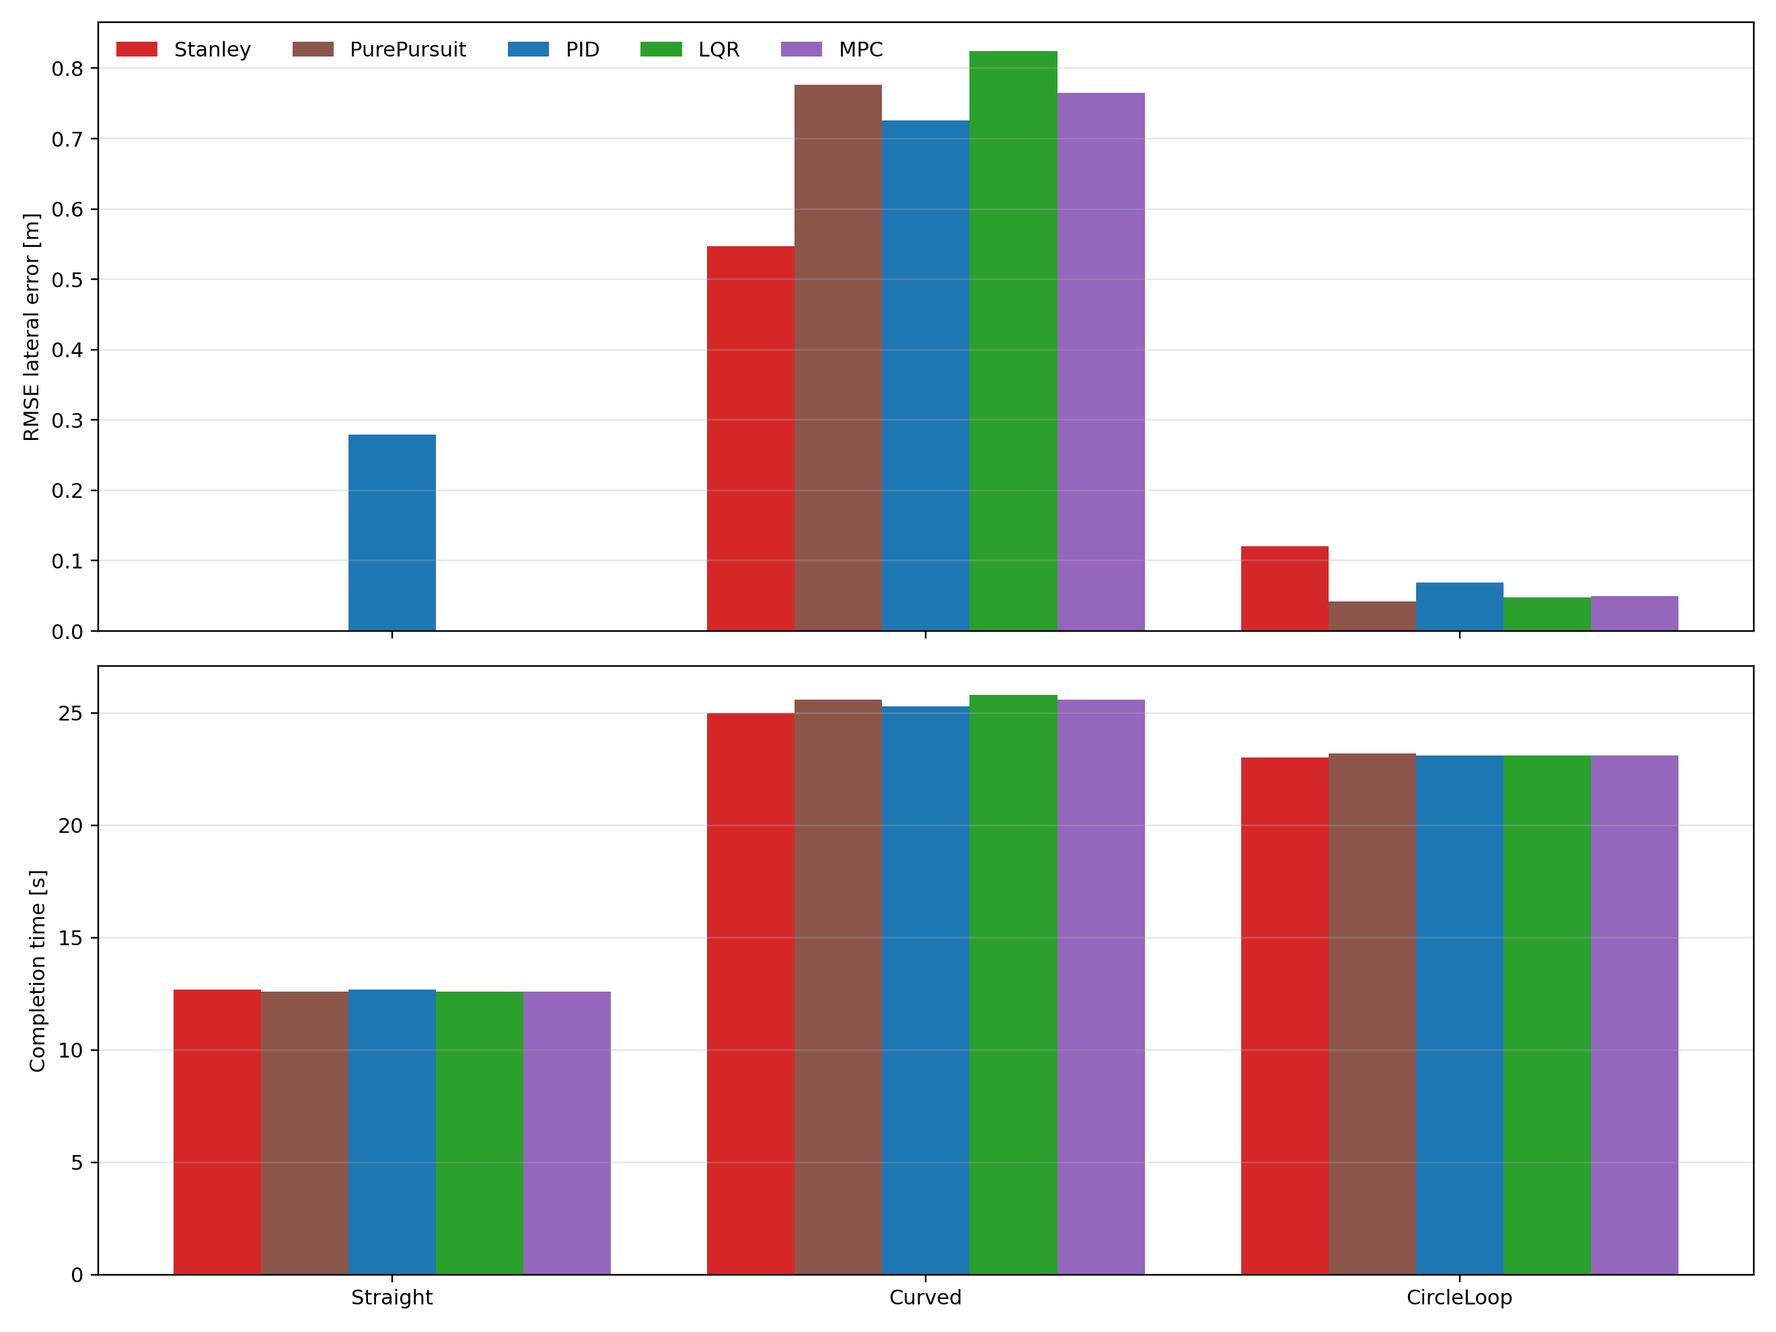
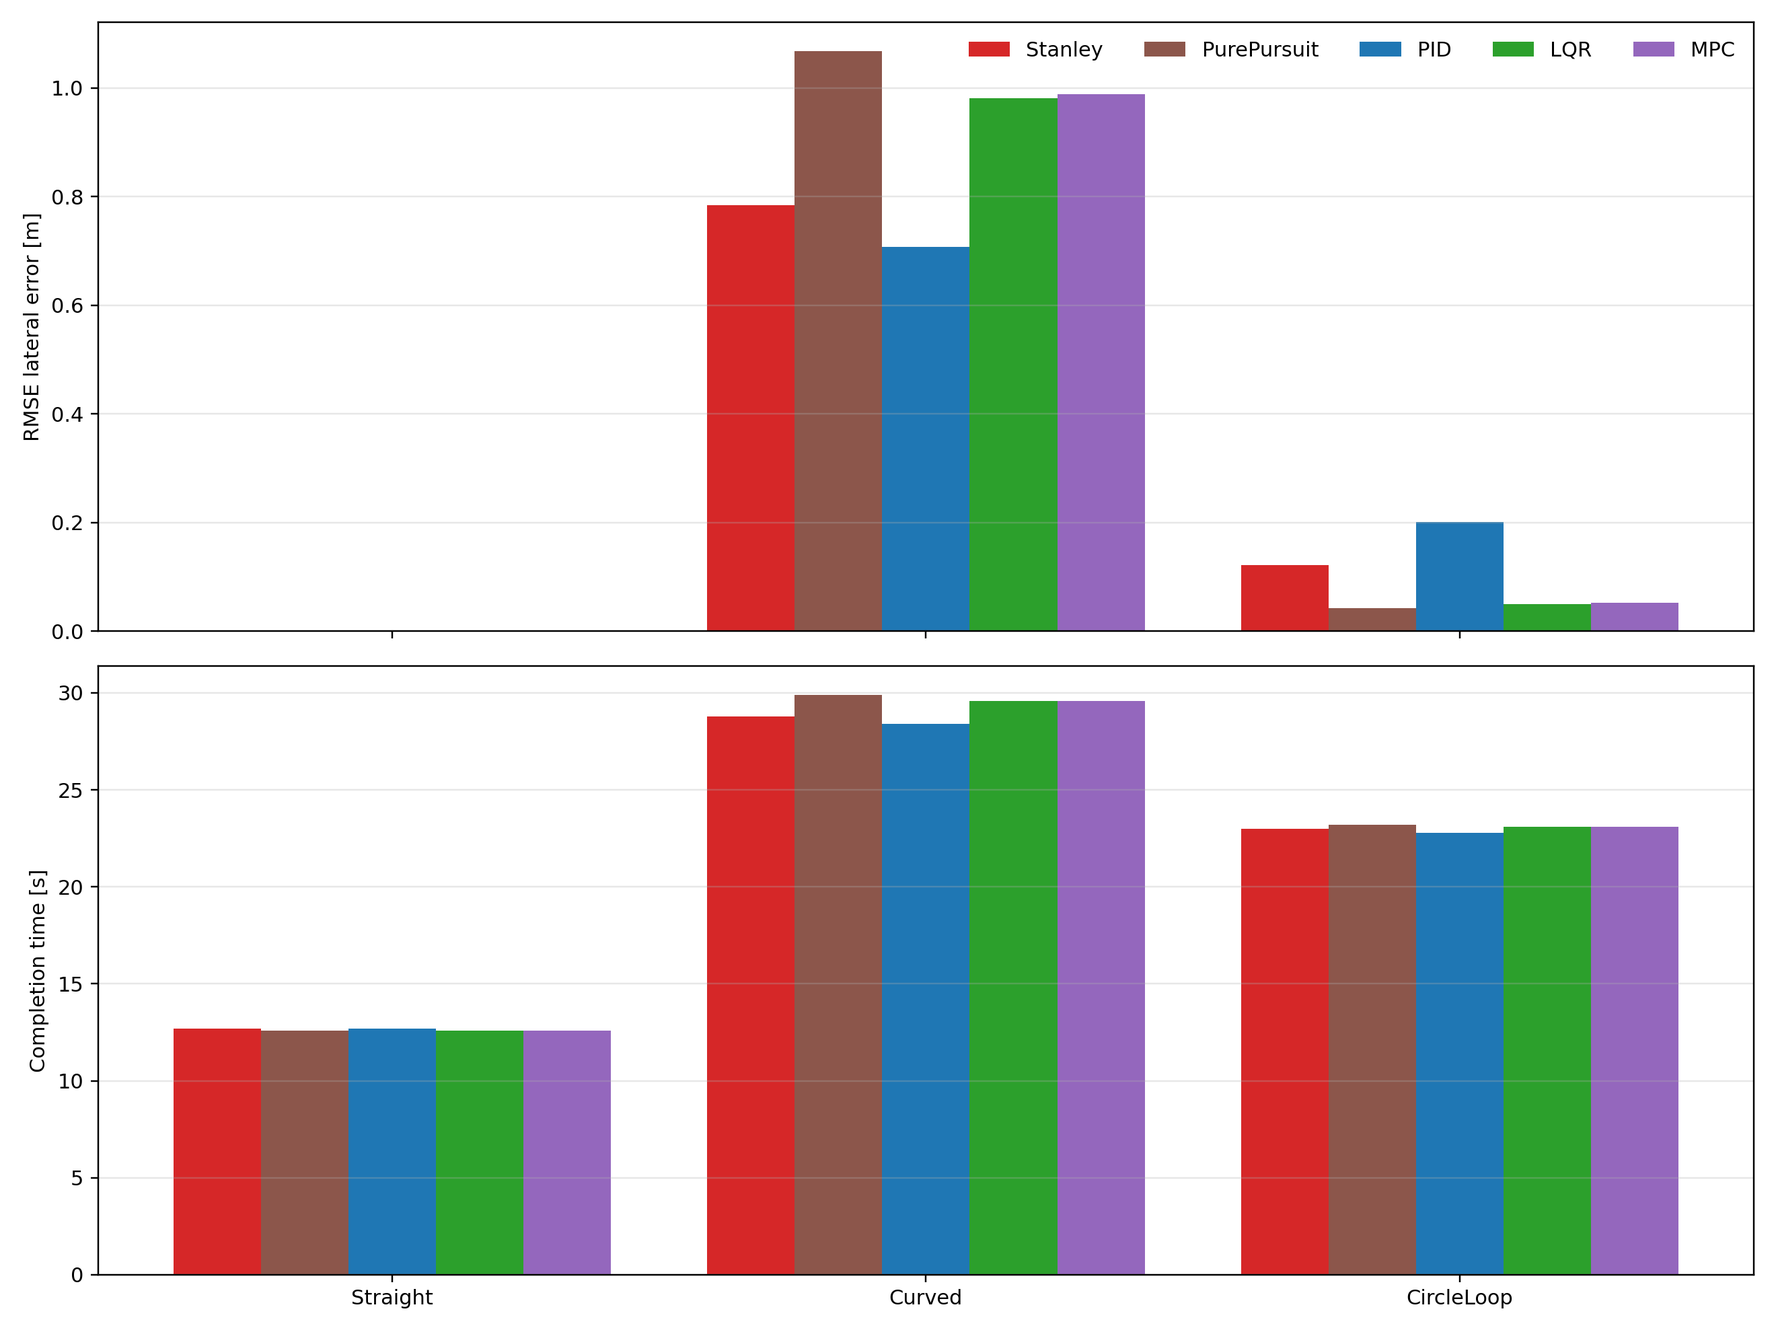
Improve simulation realism and upgrade MPC

diff --git a/MPC.py b/MPC.py
@@ -12,11 +12,11 @@ class MPCController:
     def __init__(self, dt=0.1, vehicle_config=None):
         self.dt = dt
         self.vehicle_config = vehicle_config
-        self.horizon = 12
-        self.Q = np.diag([4.5, 0.35, 3.5, 0.25])
-        self.Qf = np.diag([8.0, 0.6, 6.5, 0.4])
-        self.R_input = 0.35
-        self.R_rate = np.diag([1.25])
+        self.horizon = 16
+        self.Q = np.diag([5.0, 0.45, 4.2, 0.3])
+        self.Qf = np.diag([8.5, 0.8, 7.2, 0.5])
+        self.R_input = 0.45
+        self.R_rate = 1.8
         self.speed_pid = PID1D(
             kp=1.0,
             ki=0.12,
@@ -45,32 +45,54 @@ class MPCController:
         B = np.array([[0.0], [0.0], [0.0], [speed / self.vehicle_config.wheel_base]], dtype=float)
         return A, B
 
-    def _riccati_gains(self, A, B):
-        A_aug = np.block(
-            [
-                [A, B],
-                [np.zeros((1, 4), dtype=float), np.ones((1, 1), dtype=float)],
-            ]
-        )
-        B_aug = np.vstack([B, np.ones((1, 1), dtype=float)])
+    def _build_prediction_matrices(self, A, B):
+        state_dim = A.shape[0]
+        horizon = self.horizon
+        s_x = np.zeros((horizon * state_dim, state_dim), dtype=float)
+        s_u = np.zeros((horizon * state_dim, horizon), dtype=float)
 
-        Q_aug = np.zeros((5, 5), dtype=float)
-        Q_aug[:4, :4] = self.Q
-        Q_aug[4, 4] = self.R_input
+        a_powers = [np.eye(state_dim, dtype=float)]
+        for _ in range(horizon):
+            a_powers.append(a_powers[-1].dot(A))
 
-        Qf_aug = np.zeros((5, 5), dtype=float)
-        Qf_aug[:4, :4] = self.Qf
-        Qf_aug[4, 4] = self.R_input
+        for step in range(horizon):
+            row = slice(step * state_dim, (step + 1) * state_dim)
+            s_x[row, :] = a_powers[step + 1]
+            for control_step in range(step + 1):
+                col = slice(control_step, control_step + 1)
+                s_u[row, col] = a_powers[step - control_step].dot(B)
 
-        gains = []
-        P = Qf_aug.copy()
-        for _ in range(self.horizon):
-            S = self.R_rate + B_aug.T.dot(P).dot(B_aug)
-            K = np.linalg.solve(S, B_aug.T.dot(P).dot(A_aug))
-            gains.append(K)
-            P = Q_aug + A_aug.T.dot(P).dot(A_aug - B_aug.dot(K))
-        gains.reverse()
-        return gains
+        return s_x, s_u
+
+    def _difference_operator(self):
+        diff = np.eye(self.horizon, dtype=float)
+        for i in range(1, self.horizon):
+            diff[i, i - 1] = -1.0
+        return diff
+
+    def _solve_mpc(self, A, B, state_vector):
+        s_x, s_u = self._build_prediction_matrices(A, B)
+        q_bar = np.zeros((self.horizon * 4, self.horizon * 4), dtype=float)
+        for i in range(self.horizon - 1):
+            row = slice(i * 4, (i + 1) * 4)
+            q_bar[row, row] = self.Q
+        q_bar[-4:, -4:] = self.Qf
+
+        r_bar = self.R_input * np.eye(self.horizon, dtype=float)
+        diff = self._difference_operator()
+        prev_input = np.zeros((self.horizon, 1), dtype=float)
+        prev_input[0, 0] = self.prev_feedback_steer
+
+        hessian = s_u.T.dot(q_bar).dot(s_u) + r_bar + self.R_rate * diff.T.dot(diff)
+        gradient = s_u.T.dot(q_bar).dot(s_x).dot(state_vector) - self.R_rate * diff.T.dot(prev_input)
+        regularization = 1e-6 * np.eye(self.horizon, dtype=float)
+
+        try:
+            control_sequence = -np.linalg.solve(hessian + regularization, gradient)
+        except np.linalg.LinAlgError:
+            control_sequence = -np.linalg.lstsq(hessian + regularization, gradient, rcond=None)[0]
+
+        return control_sequence.flatten()
 
     def control(self, state, ref_path, target_speed):
         index, lateral_error, heading_error, curvature = ref_path.tracking_error(
@@ -80,33 +102,26 @@ class MPCController:
         lateral_rate = (lateral_error - self.prev_lateral_error) / self.dt
         heading_rate = normalize_angle(heading_error - self.prev_heading_error) / self.dt
 
-        A, B = self._discrete_model(state.v)
-        gains = self._riccati_gains(A, B)
-
-        augmented_state = np.array(
-            [
-                [lateral_error],
-                [lateral_rate],
-                [heading_error],
-                [heading_rate],
-                [self.prev_feedback_steer],
-            ],
+        model_speed = max(abs(state.v), abs(target_speed), 2.0)
+        A, B = self._discrete_model(model_speed)
+        state_vector = np.array(
+            [[lateral_error], [lateral_rate], [heading_error], [heading_rate]],
             dtype=float,
         )
-        delta_feedback = self.prev_feedback_steer - float(gains[0].dot(augmented_state))
-        delta_feedback = clamp(
-            delta_feedback,
+        control_sequence = self._solve_mpc(A, B, state_vector)
+        feedback_steer = clamp(
+            float(control_sequence[0]),
             -0.9 * self.vehicle_config.max_steer,
             0.9 * self.vehicle_config.max_steer,
         )
 
-        delta_feedforward = math.atan(self.vehicle_config.wheel_base * curvature)
-        steer = delta_feedforward + delta_feedback
+        feedforward_steer = math.atan(self.vehicle_config.wheel_base * curvature)
+        steer = feedforward_steer + feedback_steer
         accel = self.speed_pid.step(target_speed - state.v, self.dt)
 
         self.prev_lateral_error = lateral_error
         self.prev_heading_error = heading_error
-        self.prev_feedback_steer = delta_feedback
+        self.prev_feedback_steer = feedback_steer
 
         return (
             clamp(accel, -self.vehicle_config.max_accel, self.vehicle_config.max_accel),

diff --git a/benchmark_runner.py b/benchmark_runner.py
@@ -91,6 +91,18 @@ def _stop_speed_limit(distance_to_goal, stop_distance, comfortable_brake, stop_b
     return math.sqrt(max(0.0, 2.0 * comfortable_brake * usable_distance))
 
 
+def _curvature_speed_limit(path, center_index, sim_config):
+    if path.length == 0:
+        return sim_config.target_speed
+
+    end_index = min(path.length, center_index + max(1, sim_config.curvature_preview_points))
+    preview_curvature = float(np.max(np.abs(path.ck[center_index:end_index])))
+    if preview_curvature < 1e-4:
+        return sim_config.target_speed
+
+    return math.sqrt(sim_config.max_lateral_accel / preview_curvature)
+
+
 def build_speed_profile(length, cruise_speed, decel_points=35):
     profile = np.full(length, cruise_speed, dtype=float)
     decel_points = min(decel_points, max(1, length))
@@ -361,11 +373,19 @@ def run_benchmark(controller_name, controller_cls, scenario, sim_config, vehicle
                 _stop_speed_limit(remaining_distance, stop_distance, sim_config.comfortable_brake),
                 _stop_speed_limit(preview_goal_distance, stop_distance, sim_config.comfortable_brake),
             )
-            raw_target_speed = min(float(scenario.speed_profile[speed_index]), distance_limited_speed)
+            curvature_limited_speed = _curvature_speed_limit(scenario.path, speed_index, sim_config)
+            raw_target_speed = min(
+                float(scenario.speed_profile[speed_index]),
+                distance_limited_speed,
+                curvature_limited_speed,
+            )
             if preview_goal_distance <= stop_distance * 1.15 and state.v <= max(sim_config.stop_speed * 1.5, 0.45):
                 raw_target_speed = 0.0
         else:
-            raw_target_speed = float(scenario.speed_profile[speed_index])
+            raw_target_speed = min(
+                float(scenario.speed_profile[speed_index]),
+                _curvature_speed_limit(scenario.path, speed_index, sim_config),
+            )
 
         max_speed_delta = sim_config.target_speed_slew_rate * sim_config.dt
         if raw_target_speed > target_speed_cmd:
@@ -405,7 +425,7 @@ def run_benchmark(controller_name, controller_cls, scenario, sim_config, vehicle
         record.speed.append(state.v)
         record.target_speed.append(target_speed)
         record.accel.append(accel)
-        record.steer.append(steer)
+        record.steer.append(state.steer)
         record.lateral_error.append(lateral_error)
         record.heading_error.append(heading_error)
         record.target_index.append(index)

diff --git a/common.py b/common.py
@@ -68,6 +68,8 @@ class PID1D:
 class VehicleConfig:
     wheel_base: float = 2.7
     max_steer: float = math.radians(35.0)
+    max_steer_rate: float = math.radians(85.0)
+    steer_time_constant: float = 0.28
     max_accel: float = 2.5
     max_speed: float = 16.0
     min_speed: float = 0.0
@@ -83,11 +85,13 @@ class SimulationConfig:
     dt: float = 0.1
     max_time: float = 45.0
     target_speed: float = 8.0
+    max_lateral_accel: float = 2.25
     stop_distance: float = 1.0
     stop_speed: float = 0.5
     search_window: int = 80
     target_speed_slew_rate: float = 2.2
     comfortable_brake: float = 1.1
+    curvature_preview_points: int = 10
 
 
 @dataclass
@@ -102,13 +106,18 @@ class VehicleState:
         steer = clamp(steer, -vehicle_config.max_steer, vehicle_config.max_steer)
         accel = clamp(accel, -vehicle_config.max_accel, vehicle_config.max_accel)
 
+        steer_error = steer - self.steer
+        lag_delta = steer_error * dt / max(vehicle_config.steer_time_constant, dt)
+        max_steer_delta = vehicle_config.max_steer_rate * dt
+        steer_delta = clamp(lag_delta, -max_steer_delta, max_steer_delta)
+        self.steer = clamp(self.steer + steer_delta, -vehicle_config.max_steer, vehicle_config.max_steer)
+
         self.x += self.v * math.cos(self.yaw) * dt
         self.y += self.v * math.sin(self.yaw) * dt
         self.yaw = normalize_angle(
-            self.yaw + self.v / vehicle_config.wheel_base * math.tan(steer) * dt
+            self.yaw + self.v / vehicle_config.wheel_base * math.tan(self.steer) * dt
         )
         self.v = clamp(self.v + accel * dt, vehicle_config.min_speed, vehicle_config.max_speed)
-        self.steer = steer
 
 
 class ReferencePath:

diff --git a/LQR.py b/LQR.py
@@ -65,7 +65,8 @@ class LQRPathTrackingController:
             [[lateral_error], [lateral_rate], [heading_error], [heading_rate]],
             dtype=float,
         )
-        A, B = self._discrete_model(state.v)
+        model_speed = max(abs(state.v), abs(target_speed), 2.0)
+        A, B = self._discrete_model(model_speed)
         P = self._solve_dare(A, B)
         K = np.linalg.solve(self.R + B.T.dot(P).dot(B), B.T.dot(P).dot(A))
 

diff --git a/README.md b/README.md
@@ -6,7 +6,7 @@ Comparative benchmark and visualization project for classical vehicle path-track
 
 ## At a Glance
 
-- `5` 类控制器：`Stanley / Pure Pursuit / PID / LQR / MPC-style`
+- `5` 类控制器：`Stanley / Pure Pursuit / PID / LQR / MPC`
 - `3` 类任务：`Straight / Curved / CircleLoop`
 - 支持实时弹窗、多车同图演示、量化评测、自动出图出表
 - 适合作为自动驾驶控制/规控岗位的项目展示与面试讲解材料
@@ -17,14 +17,14 @@ Comparative benchmark and visualization project for classical vehicle path-track
 - `Pure Pursuit`
 - `PID`
 - `LQR`
-- `MPC-style`
+- `MPC`
 
 项目使用统一的运动学自行车模型、统一的仿真时钟、统一的终点判定和统一的评测指标，对不同控制器在多种轨迹任务上的跟踪精度、完成时间和控制平滑性进行量化对比。
 
 ## Highlights
 
 - 统一 benchmark 框架：同一套车辆模型、终点逻辑和指标统计，便于公平对比。
-- 支持 5 种控制器：`Stanley / Pure Pursuit / PID / LQR / MPC-style`。
+- 支持 5 种控制器：`Stanley / Pure Pursuit / PID / LQR / MPC`。
 - 支持 3 类任务：`Straight`、高曲率 `Curved`、整圈闭环 `CircleLoop`。
 - 综合脚本默认实时弹窗演示，并让多辆车在同一张图里一起跑。
 - 支持每个控制器独立脚本运行，也支持综合 benchmark 一键出图出表。
@@ -55,7 +55,7 @@ Comparative benchmark and visualization project for classical vehicle path-track
 - `Pure Pursuit`：基于前视点的经典几何路径跟踪方法。
 - `PID`：使用速度 PID 和横向误差 PID 的基线方法。
 - `LQR`：基于线性二次型调节器的状态反馈控制方法。
-- `MPC-style`：有限时域预测控制风格的控制器，用于兼顾精度与平滑性。
+- `MPC`：基于有限时域在线优化的模型预测控制器，用于兼顾精度与输入平滑性。
 
 ## Scenarios
 
@@ -125,19 +125,19 @@ python MPC.py --no-live
 | --- | --- | --- | --- | --- | --- | --- | --- | --- | --- |
 | Straight | Stanley | Yes | 0.000 | 0.000 | 0.000 | 12.70 | 0.985 | 0.000 | 0.000 |
 | Straight | PurePursuit | Yes | 0.000 | 0.000 | 0.000 | 12.60 | 0.981 | 0.000 | 0.000 |
-| Straight | PID | Yes | 0.178 | 0.649 | 0.280 | 12.70 | 0.987 | 0.257 | 5.155 |
+| Straight | PID | Yes | 0.000 | 0.000 | 0.000 | 12.70 | 0.989 | 0.000 | 0.000 |
 | Straight | LQR | Yes | 0.000 | 0.000 | 0.000 | 12.60 | 0.985 | 0.000 | 0.000 |
 | Straight | MPC | Yes | 0.000 | 0.000 | 0.000 | 12.60 | 0.985 | 0.000 | 0.000 |
-| Curved | Stanley | Yes | 0.221 | 2.771 | 0.547 | 25.00 | 0.491 | 0.137 | 0.175 |
-| Curved | PurePursuit | Yes | 0.282 | 3.881 | 0.776 | 25.60 | 0.471 | 0.136 | 0.169 |
-| Curved | PID | Yes | 0.407 | 3.562 | 0.726 | 25.30 | 0.484 | 0.479 | 8.149 |
-| Curved | LQR | Yes | 0.346 | 4.113 | 0.824 | 25.80 | 0.467 | 0.431 | 7.329 |
-| Curved | MPC | Yes | 0.260 | 3.886 | 0.765 | 25.60 | 0.470 | 0.137 | 0.616 |
-| CircleLoop | Stanley | Yes | 0.118 | 0.148 | 0.121 | 23.00 | 0.269 | 0.161 | 0.214 |
-| CircleLoop | PurePursuit | Yes | 0.039 | 0.080 | 0.042 | 23.20 | 0.267 | 0.149 | 0.081 |
-| CircleLoop | PID | Yes | 0.055 | 0.227 | 0.069 | 23.10 | 0.270 | 0.463 | 8.693 |
-| CircleLoop | LQR | Yes | 0.045 | 0.081 | 0.048 | 23.10 | 0.271 | 0.296 | 5.286 |
-| CircleLoop | MPC | Yes | 0.047 | 0.066 | 0.049 | 23.10 | 0.270 | 0.148 | 1.474 |
+| Curved | Stanley | Yes | 0.310 | 3.673 | 0.784 | 28.80 | 0.713 | 0.154 | 0.163 |
+| Curved | PurePursuit | Yes | 0.387 | 4.630 | 1.067 | 29.90 | 0.748 | 0.163 | 0.180 |
+| Curved | PID | Yes | 0.354 | 3.302 | 0.707 | 28.40 | 0.698 | 0.170 | 0.320 |
+| Curved | LQR | Yes | 0.338 | 4.413 | 0.980 | 29.60 | 0.722 | 0.163 | 0.217 |
+| Curved | MPC | Yes | 0.346 | 4.432 | 0.988 | 29.60 | 0.722 | 0.162 | 0.203 |
+| CircleLoop | Stanley | Yes | 0.118 | 0.148 | 0.121 | 23.00 | 0.269 | 0.158 | 0.066 |
+| CircleLoop | PurePursuit | Yes | 0.039 | 0.071 | 0.042 | 23.20 | 0.267 | 0.148 | 0.023 |
+| CircleLoop | PID | Yes | 0.195 | 0.222 | 0.201 | 22.80 | 0.274 | 0.161 | 0.615 |
+| CircleLoop | LQR | Yes | 0.047 | 0.066 | 0.050 | 23.10 | 0.271 | 0.148 | 0.256 |
+| CircleLoop | MPC | Yes | 0.049 | 0.068 | 0.052 | 23.10 | 0.270 | 0.148 | 0.157 |
 
 ## Experiment Analysis
 
@@ -150,21 +150,22 @@ python MPC.py --no-live
 
 ### By Scenario
 
-- `Straight`：`Stanley / Pure Pursuit / LQR / MPC` 基本实现零误差跟踪，说明基础模型、路径索引和控制接口工作正常；`PID` 可以完成任务，但横向控制仍存在一定抖动。
-- `Curved`：`Stanley` 在当前参数下 RMSE 最低，说明其在高曲率几何路径跟踪上的表现较强；`MPC-style` 的平均转向变化率明显更低，说明它在复杂场景下更容易兼顾精度和控制平滑性。
-- `CircleLoop`：`Pure Pursuit` 的 RMSE 最低，说明前视策略在闭环连续曲率任务里非常有效；`MPC-style` 和 `LQR` 也保持了较低误差，表现稳定。
+- `Straight`：5 种控制器都能稳定完成近零误差跟踪，说明统一建模、路径索引和控制接口已经正确闭环。
+- `Curved`：这是最能拉开差异的场景。`PID` 在当前参数下取得了最低 RMSE，但转向变化率最高；`MPC` 和 `LQR` 虽然误差略大，但控制输入更平滑，体现了精度与平滑性的典型 trade-off。
+- `CircleLoop`：`Pure Pursuit` 的 RMSE 最低，说明前视策略在闭环连续曲率任务里非常有效；`MPC`、`LQR` 和 `Stanley` 也保持了较低误差和较稳的闭环表现。
 
 ### By Controller
 
 - `Stanley`：在几何路径跟踪任务中整体表现稳定，尤其适合曲率变化明显的路径。
 - `Pure Pursuit`：实现简单、效果直观，在闭环和连续曲率任务里很有代表性。
-- `PID`：适合作为 baseline，但在复杂场景下更容易出现较大的转向振荡。
+- `PID`：适合作为 baseline。在高曲率任务里可以通过调参取得较低误差，但通常会伴随更激进的转向变化。
 - `LQR`：具备较强的经典控制解释性，适合做状态反馈方法对照。
-- `MPC-style`：虽然 RMSE 不一定始终最低，但通常能在精度和控制平滑性之间取得较好平衡。
+- `MPC`：基于在线有限时域优化，虽然 RMSE 不一定始终最低，但通常能在精度和控制平滑性之间取得更稳妥的平衡。
 
 ### Engineering Notes
 
-- 当前终点减速逻辑使用统一速度收敛和柔性制动策略，避免了早期版本中“接近终点时速度来回震荡”的问题。
+- 当前框架加入了曲率感知速度规划、统一速度收敛和柔性制动策略，避免了早期版本中“接近终点时速度来回震荡”的问题。
+- 当前车辆模型加入了转向角速率限制和一阶执行器动态，使不同控制器的对比更接近真实执行器条件。
 - 综合脚本与单控制器脚本都支持覆盖旧结果重新生成，便于反复调参和稳定展示。
 
 ## File Guide
@@ -177,12 +178,11 @@ python MPC.py --no-live
 | `PurePursuit.py` | `Pure Pursuit` 控制器实现与独立运行入口。 |
 | `PID.py` | 纯 PID 基线控制器实现与独立运行入口。 |
 | `LQR.py` | LQR 路径跟踪控制器实现与独立运行入口。 |
-| `MPC.py` | MPC-style 控制器实现与独立运行入口。 |
+| `MPC.py` | 线性 MPC 控制器实现与独立运行入口。 |
 | `common.py` | 公共数据结构、车辆模型、PID 工具、仿真配置定义。 |
 | `cubic_spline.py` | 样条路径生成模块，用于构造参考轨迹。 |
 | `draw.py` | 小车可视化绘制工具，用于静态图和动画展示。 |
 | `requirements.txt` | 项目依赖说明。 |
-| `resume_project_summary.md` | 面向简历投递的项目描述素材。 |
 | `assets/readme/` | README 首页展示图片，适合直接同步到 GitHub。 |
 | `outputs/` | benchmark 运行输出目录，存放表格、分析图和动画。 |
 
@@ -214,7 +214,7 @@ python MPC.py --no-live
 
 如果你想把这个项目写进简历，可以概括成：
 
-> 搭建了一个自包含的轨迹跟踪控制 benchmark，统一实现并评测 Stanley、Pure Pursuit、PID、LQR 和 MPC-style 5 类控制器，在直线、高曲率曲线和整圈闭环任务上对横向误差、完成时间和控制平滑性进行量化对比，并完成实时演示、结果图表自动生成和独立脚本封装。
+> 搭建了一个自包含的轨迹跟踪控制 benchmark，统一实现并评测 Stanley、Pure Pursuit、PID、LQR 和 MPC 5 类控制器，在直线、高曲率曲线和整圈闭环任务上对横向误差、完成时间和控制平滑性进行量化对比，并完成实时演示、结果图表自动生成和独立脚本封装。
 
 ## Notes
 
